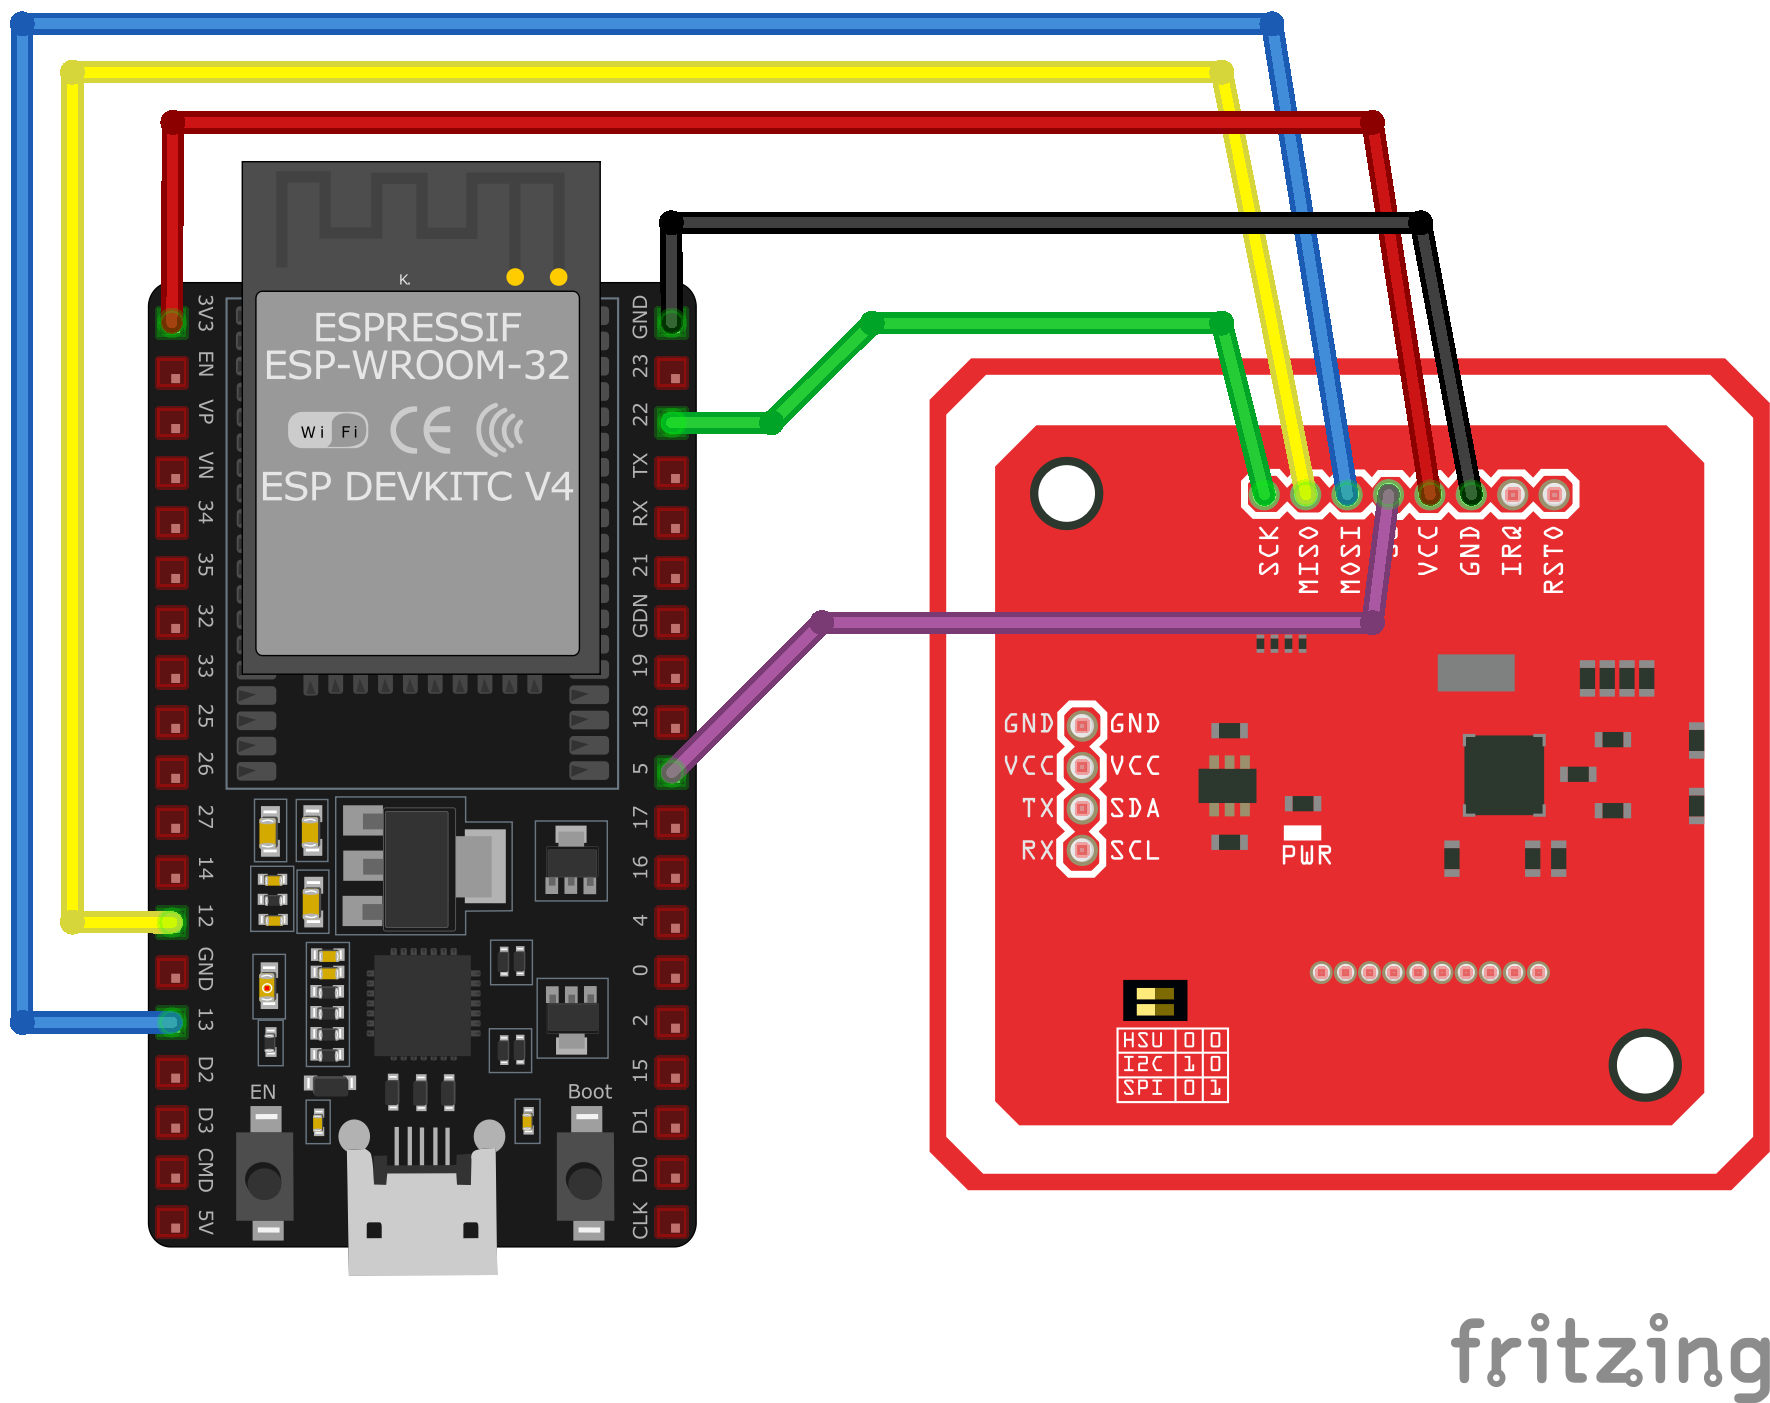
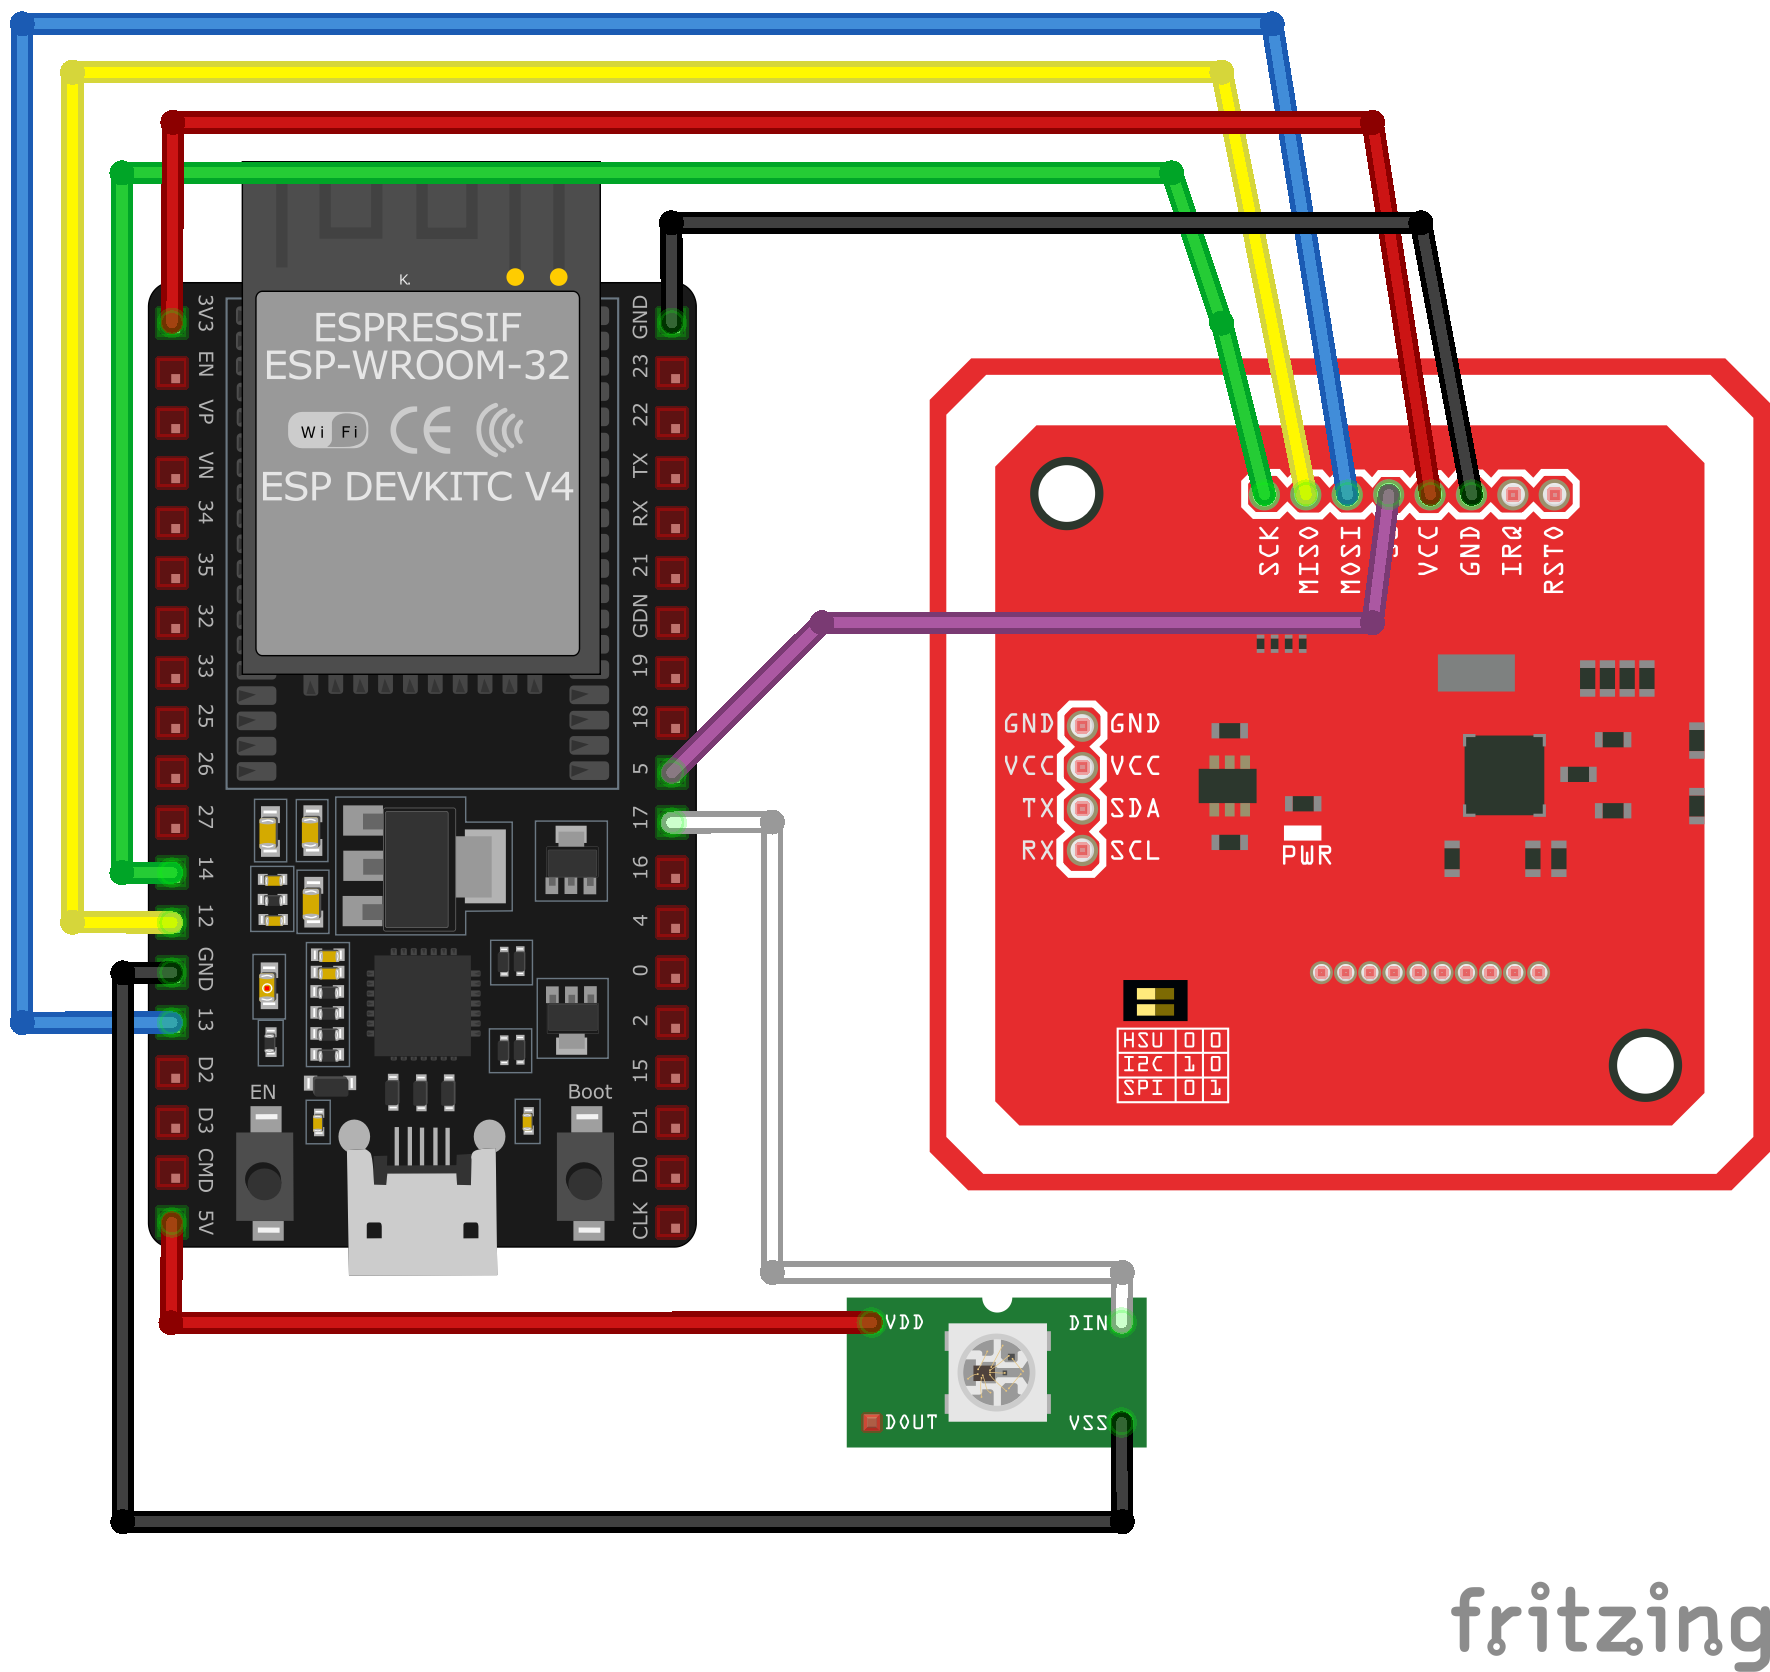
update diagram

diff --git a/README.md b/README.md
@@ -41,7 +41,7 @@ TODO
 
 ### Wiring
 
-ESP32 Wiring
+ESP32 Wiring with WS2812B neopixel
 
 ![](images/ESP32%20Diagram.png)
 
